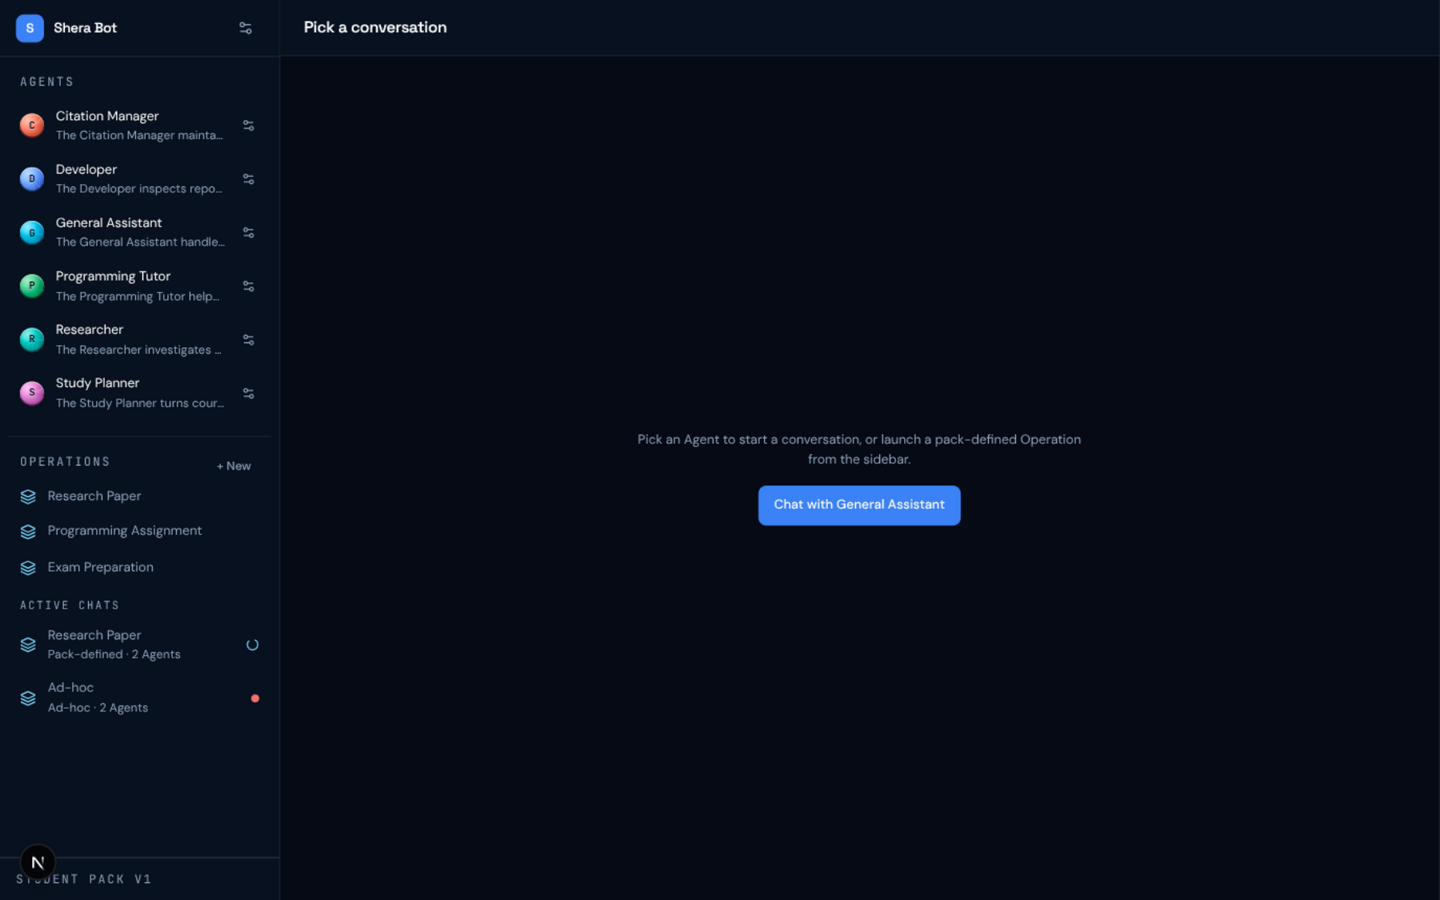
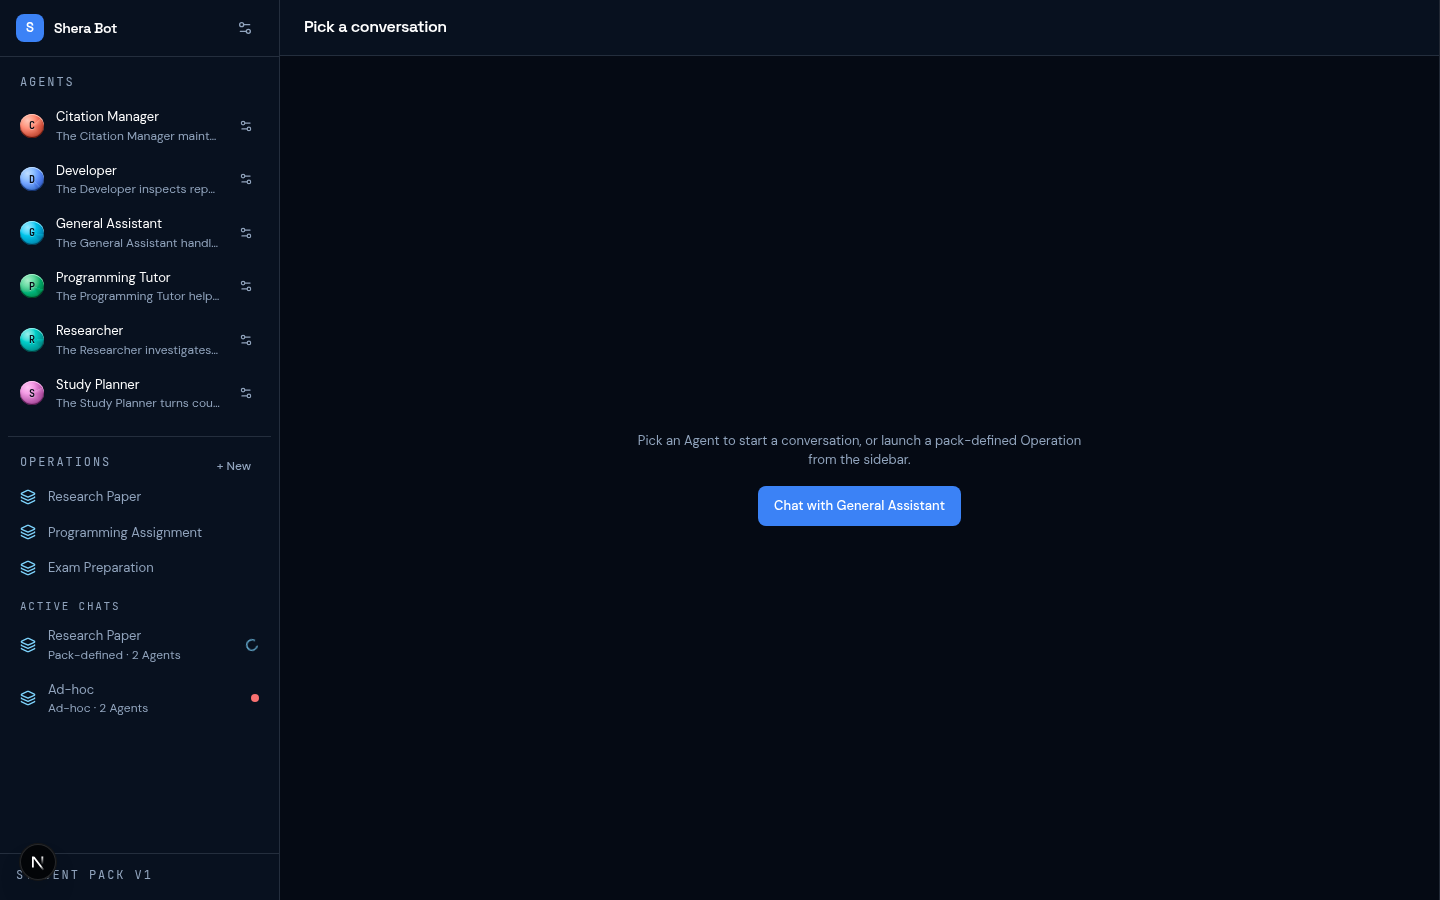
s11: sidebar footer edge rhythm + 24px Agent settings gear target
Adversarial taste pass (P3): at 1440×900 the STUDENT PACK V1 footer label
sat with only 12px beneath it — visually riding the viewport's bottom
edge (the committed capture reads as clipped mid-glyph; measured geometry
puts the glyphs inside the viewport, with the Next devtools bubble adding
to the broken look in dev). The footer now uses the shell's 16px edge
rhythm (pb-4), matching the skeleton footer.

Also: the per-row Agent settings gear was a 22px pointer target — bumped
to p-1.5 (26px) for the §2.3 a11y baseline. Hover-state evidence for the
roster rows captured alongside (sidebar-row-hover-1440.png).

Evidence: dashboard-live-1440.png (re-captured, footer clear of the edge).

diff --git a/apps/web/components/shell/agent-roster.tsx b/apps/web/components/shell/agent-roster.tsx
@@ -142,12 +142,14 @@ export function AgentRosterSection({
                     </span>
                   </Link>
                   {/* §3.2: the Agents section is fixed — the gear opens the
-                      Agent's settings (D16 commands), it never creates. */}
+                      Agent's settings (D16 commands), it never creates. The
+                      p-1.5 padding keeps the pointer/keyboard target at the
+                      24px+ a11y baseline (§2.3). */}
                   <Link
                     href={routes.settings(`agents/${slug}`)}
                     aria-label={`Open ${agent.display_name} settings`}
                     title={`Open ${agent.display_name} settings`}
-                    className="shrink-0 rounded-md p-1 text-muted transition-colors hover:bg-surface-elevated hover:text-text"
+                    className="shrink-0 rounded-md p-1.5 text-muted transition-colors hover:bg-surface-elevated hover:text-text"
                     {...linkProps}
                   >
                     <Settings2 className="size-3.5" aria-hidden="true" />

diff --git a/apps/web/components/shell/sidebar-content.tsx b/apps/web/components/shell/sidebar-content.tsx
@@ -267,9 +267,11 @@ export function SidebarContent({ onNavigate }: { onNavigate?: () => void }) {
         </section>
       </nav>
 
-      {/* Footer: pinned pack shown once as a label, not a control (D40) */}
+      {/* Footer: pinned pack shown once as a label, not a control (D40).
+          pb-4 keeps the label inside the shell's 16px edge rhythm — it never
+          rides the viewport's bottom edge. */}
       <Separator />
-      <div className="px-4 py-3">
+      <div className="px-4 pb-4 pt-3">
         <p className="font-mono text-xs uppercase tracking-[0.16em] text-muted">student pack v1</p>
       </div>
     </div>

diff --git a/apps/web/components/shell/states.tsx b/apps/web/components/shell/states.tsx
@@ -55,7 +55,7 @@ export function SidebarSkeleton() {
         ))}
       </div>
       <div className="h-px bg-line" />
-      <div className="px-4 py-3">
+      <div className="px-4 pb-4 pt-3">
         <SkeletonBlock className="h-3 w-24" />
       </div>
     </div>
